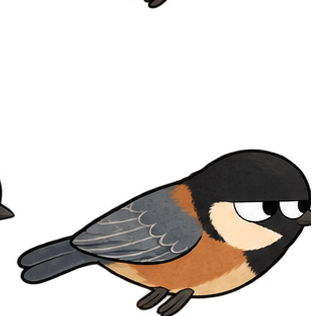
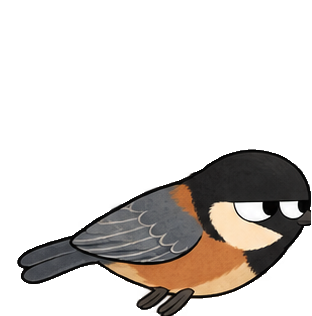
Remove neighboring bird and owl frame artifacts

diff --git a/docs/landing-motion-playground.css b/docs/landing-motion-playground.css
@@ -33,7 +33,7 @@
 .discovery-scene img.motion-character { width: 82px; height: auto; border: 0; border-radius: 0; object-fit: contain; }
 .discovery-scene img.discovery-tanuki { right: 0; bottom: 15px; width: 84px; }
 .squirrel-sniff-motion { position: absolute; z-index: 3; left: 10%; bottom: 20px; width: 86px; transform-origin: 65% 85%; }
-.discovery-scene .squirrel-sniff-motion .discovery-squirrel { position: relative; width: 100%; height: auto; }
+.discovery-scene .squirrel-sniff-motion .discovery-squirrel { position: relative; width: 100%; height: auto; scale: -1 1; }
 .discovery-ground.is-active .squirrel-sniff-motion { animation: sniff-nod 4s 1.3s ease-in-out infinite; }
 @keyframes sniff-nod { 0%, 66%, 100% { transform: none; } 74% { transform: rotate(7deg) translateY(4px); } 84% { transform: rotate(-2deg); } }
 .discovery-acorn { position: absolute; z-index: 4; left: 45%; bottom: 21px; width: 22px; height: 26px; transform: rotate(17deg); }
@@ -83,7 +83,7 @@
 .season-leaves { display: none; position: absolute; z-index: 3; right: 6%; bottom: 7%; width: 110px; height: 38px; }
 .glide-scene[data-season="summer"] .season-leaves { display: block; }
 .season-frog { top: auto; left: auto; right: 8%; bottom: 9%; width: clamp(60px,8vw,95px); }
-.season-guest--autumn { top: 30%; left: 70%; width: clamp(65px,9vw,108px); }
+.season-guest--autumn { top: 30%; left: 70%; width: clamp(65px,9vw,108px); scale: -1 1; }
 .glide-scene.is-active .season-guest--spring.is-season-current { animation: butterfly-drift 7s ease-in-out infinite; }
 .glide-scene.is-active .season-guest--summer.is-season-current:not(.season-frog) { animation: dragonfly-drift 7s ease-in-out infinite; }
 .glide-scene.is-active .season-guest--autumn.is-season-current { animation: bird-cross 9s 1.4s linear infinite; }
@@ -106,7 +106,7 @@
 .master-walk-shadow { position: absolute; z-index: 1; bottom: 18%; left: var(--walk-from, -20%); width: 17%; height: 16px; border-radius: 50%; background: radial-gradient(ellipse, #19272266, #19272200 72%); opacity: 0; }
 .return-journey.has-played .return-master { animation: return-walk 6.4s linear both, master-steps .68s ease-in-out 9.4117647; }
 .return-journey.has-played .master-walk-shadow { animation: shadow-walk 6.4s linear both, shadow-steps .68s ease-in-out 9.4117647; }
-.return-journey.has-played .return-squirrel { animation: return-walk 6.4s 1s linear both, squirrel-steps .533s 1s ease-in-out 12; }
+.return-journey.has-played .return-squirrel { animation: return-walk 6.4s 1s linear both, squirrel-steps .533s 1s ease-in-out 12; scale: -1 1; }
 .return-journey.has-played .return-tanuki { animation: return-walk 6.4s 1.8s linear both; }
 @keyframes return-walk { 0% { left: var(--walk-from); opacity: 0; } 12% { opacity: 1; } 100% { left: var(--walk-to); opacity: 1; } }
 @keyframes master-steps { 0%, 100% { transform: translateY(0) rotate(1deg); } 25% { transform: translateY(-7px) rotate(-1.8deg); } 50% { transform: translateY(0) rotate(1.3deg); } 75% { transform: translateY(-4px) rotate(-1deg); } }

diff --git a/docs/landing-motion-playground.html b/docs/landing-motion-playground.html
@@ -97,7 +97,7 @@
       </div>
       <figure class="look-scene glide-scene" data-motion-threshold="0.1" data-season="autumn" data-motion-scene data-reveal>
         <img src="motion-assets/forest-clearing.jpg" alt="秋の森の広場と、山の向こうへ広がる空" loading="lazy" width="1448" height="1086">
-        <img class="motion-character owl-glide" src="landing-assets/motion-test/owl/glide/frame-01.png" alt="" aria-hidden="true" data-motion-frames="landing-assets/motion-test/owl/glide/frame-01.png|landing-assets/motion-test/owl/glide/frame-02.png|landing-assets/motion-test/owl/glide/frame-03.png|landing-assets/motion-test/owl/glide/frame-04.png" data-loop="true" data-frame-interval="260">
+        <img class="motion-character owl-glide" src="landing-assets/motion-test/owl/glide/frame-01.png" alt="" aria-hidden="true" data-motion-frames="landing-assets/motion-test/owl/glide/frame-01.png|landing-assets/motion-test/owl/glide/frame-04.png" data-loop="true" data-frame-interval="260">
         <img class="motion-character season-guest season-guest--spring" src="landing-assets/motion-test/butterfly/flutter/frame-01.png" alt="" aria-hidden="true" data-seasonal-actor="spring" data-motion-frames="landing-assets/motion-test/butterfly/flutter/frame-01.png|landing-assets/motion-test/butterfly/flutter/frame-02.png|landing-assets/motion-test/butterfly/flutter/frame-03.png|landing-assets/motion-test/butterfly/flutter/frame-04.png" data-loop="true" data-frame-interval="240">
         <img class="motion-character season-guest season-guest--summer" src="landing-assets/motion-test/dragonfly/glide/frame-01.png" alt="" aria-hidden="true" data-seasonal-actor="summer" data-motion-frames="landing-assets/motion-test/dragonfly/glide/frame-01.png|landing-assets/motion-test/dragonfly/glide/frame-02.png|landing-assets/motion-test/dragonfly/glide/frame-03.png|landing-assets/motion-test/dragonfly/glide/frame-04.png" data-loop="true" data-frame-interval="240">
         <img class="motion-character season-guest season-guest--summer season-frog" src="landing-assets/motion-test/frog/idle-blink/frame-01.png" alt="" aria-hidden="true" data-seasonal-actor="summer" data-motion-frames="landing-assets/motion-test/frog/idle-blink/frame-01.png|landing-assets/motion-test/frog/idle-blink/frame-02.png|landing-assets/motion-test/frog/idle-blink/frame-03.png|landing-assets/motion-test/frog/idle-blink/frame-04.png" data-loop="true" data-frame-interval="380">
